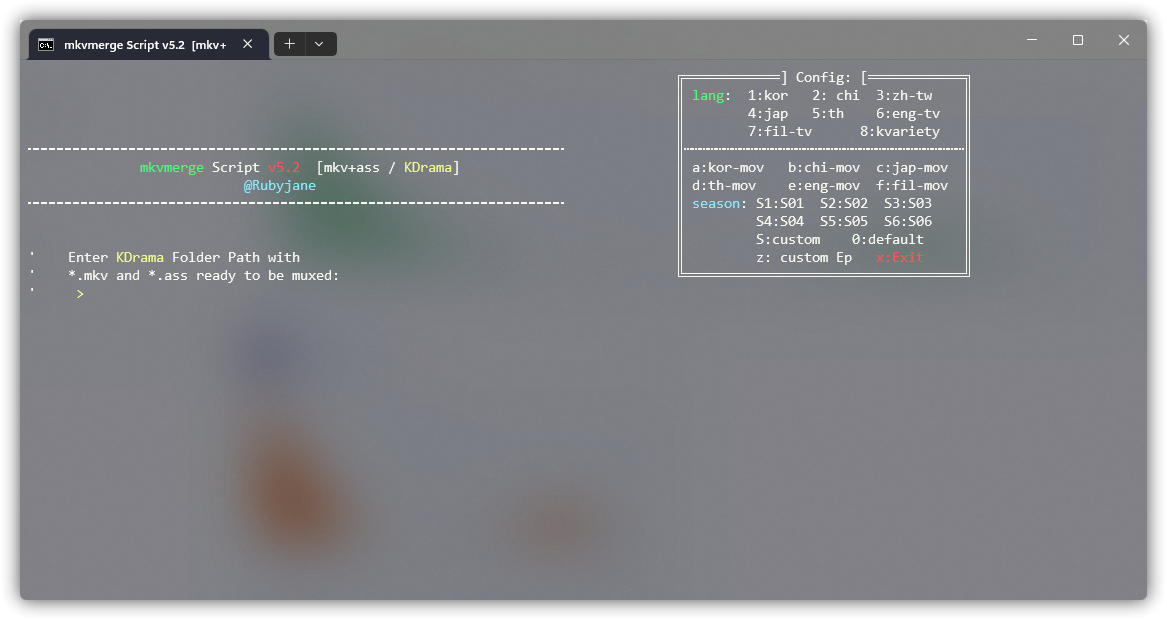
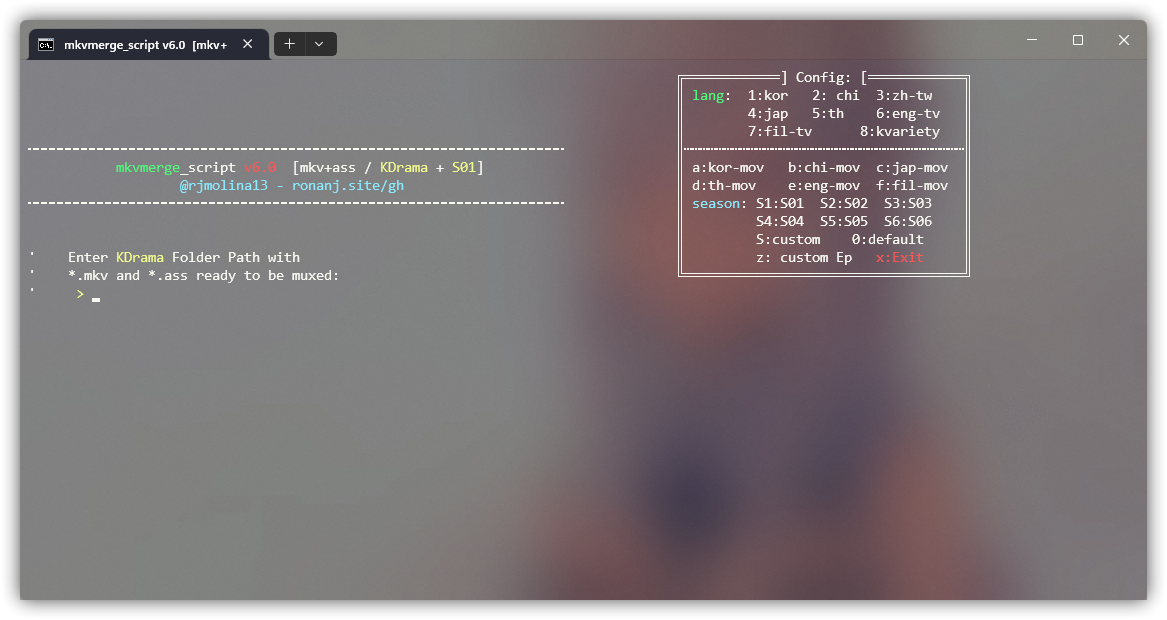
v6.0 batch script final release

diff --git a/README.md b/README.md
@@ -21,7 +21,7 @@
     <img src="images/logo.png" alt="Logo" width="300" height=45>
   </a>
 
-## <div style="text-align: center">mkvmerge_script <span style="font-size: 0.7em; font-style: italic">*v5.4*</span></div>
+## <div style="text-align: center">mkvmerge_script <span style="font-size: 0.7em; font-style: italic">*v6.0*</span></div>
 
 <div align="center">
   <p>
